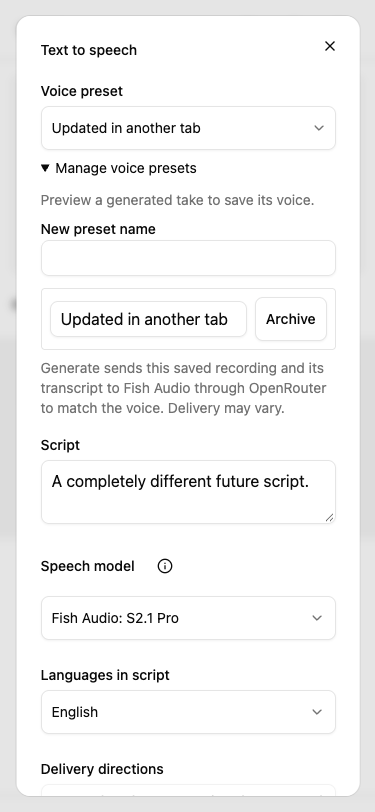
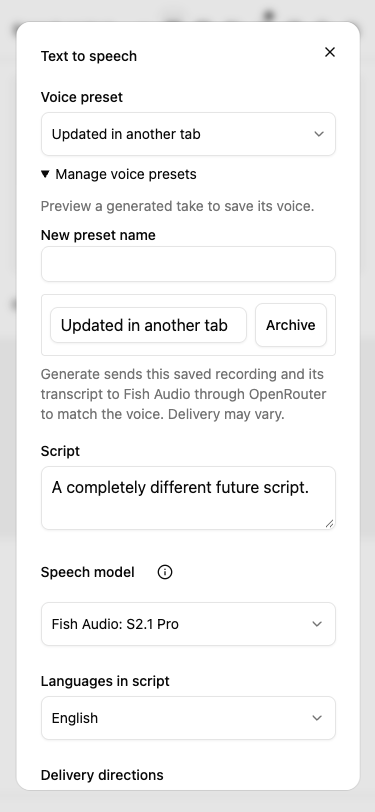
Right-size workspace dialogs and contain narrow layouts

diff --git a/tests/browser/workspace-dialog-sizing.spec.ts b/tests/browser/workspace-dialog-sizing.spec.ts
@@ -1,0 +1,220 @@
+import { expect, test, type Locator, type Page } from '@playwright/test';
+import {
+  openAISettings,
+  openVideoExport,
+  openWorkspaceGroup,
+} from './workspace-settings-helper';
+
+async function bounds(dialog: Locator, page: Page) {
+  await expect(dialog).toBeVisible();
+  await expect
+    .poll(() =>
+      dialog.evaluate((element) => {
+        const rect = element.getBoundingClientRect();
+        return (
+          rect.left >= 8 &&
+          rect.top >= 8 &&
+          rect.right <= innerWidth - 8 &&
+          rect.bottom <= innerHeight - 8
+        );
+      }),
+    )
+    .toBe(true);
+  expect(
+    await dialog.evaluate(
+      (element) => element.scrollWidth - element.clientWidth,
+    ),
+  ).toBeLessThanOrEqual(2);
+  expect(
+    await page.evaluate(
+      () => document.documentElement.scrollHeight - innerHeight,
+    ),
+  ).toBeLessThanOrEqual(2);
+}
+
+for (const base of ['/', '/LocalCut/']) {
+  test(`dialog sizing fits content and contains rich editors across viewports ${base}`, async ({
+    page,
+  }, testInfo) => {
+    test.setTimeout(180000);
+    await page.setViewportSize({ width: 1440, height: 1000 });
+    await page.goto(base);
+    const dialog = (name: string) =>
+      page.getByRole('dialog', { name, exact: true });
+    const close = async (name: string) => {
+      await dialog(name).locator('[data-slot="dialog-close"]').click();
+      await expect(dialog(name)).toBeHidden();
+    };
+    const audit = async (name: string, compact = false) => {
+      await bounds(dialog(name), page);
+      if (compact)
+        expect((await dialog(name).boundingBox())!.height).toBeLessThan(400);
+      await testInfo.attach(`${name} bounds`, {
+        contentType: 'application/json',
+        body: JSON.stringify(await dialog(name).boundingBox()),
+      });
+    };
+    await (
+      await openWorkspaceGroup(page, 'Project')
+    )
+      .getByRole('menuitem', { name: 'New project', exact: true })
+      .click();
+    await audit('New project');
+    await page.getByLabel('Project name', { exact: true }).fill('Dialog audit');
+    await dialog('New project')
+      .getByRole('button', { name: 'Create project', exact: true })
+      .click();
+    await expect(dialog('New project')).toBeHidden();
+
+    await page.getByRole('button', { name: 'Task queue', exact: true }).click();
+    await audit('Task queue', true);
+    await close('Task queue');
+    await expect(
+      page.getByRole('button', { name: 'Task queue', exact: true }),
+    ).toBeFocused();
+    await page
+      .getByRole('button', { name: 'Notifications', exact: true })
+      .click();
+    await audit('Notifications', true);
+    await close('Notifications');
+
+    await openAISettings(page);
+    await audit('AI connection');
+    await page.screenshot({ path: testInfo.outputPath('desktop-ai.png') });
+    await dialog('AI connection')
+      .getByRole('button', { name: 'Done', exact: true })
+      .click();
+
+    await (
+      await openWorkspaceGroup(page, 'Workspace')
+    )
+      .getByRole('menuitem', { name: 'Export workspace', exact: true })
+      .click();
+    await audit('Export workspace');
+    expect(
+      (await dialog('Export workspace').boundingBox())!.width,
+    ).toBeGreaterThan(600);
+    await close('Export workspace');
+    await (
+      await openWorkspaceGroup(page, 'Workspace')
+    )
+      .getByRole('menuitem', { name: 'Import workspace', exact: true })
+      .click();
+    await audit('Import workspace', true);
+    await close('Import workspace');
+
+    await page.getByRole('button', { name: 'Add text', exact: true }).click();
+    await audit('Add text');
+    await dialog('Add text')
+      .getByRole('button', { name: 'Insert Plain text', exact: true })
+      .click();
+    await audit('Clip properties');
+    await close('Clip properties');
+    await openVideoExport(page);
+    await audit('Export video');
+    await close('Export video');
+
+    await page
+      .getByRole('button', { name: 'Open project', exact: true })
+      .click();
+    await audit('Projects');
+    expect((await dialog('Projects').boundingBox())!.height).toBeGreaterThan(
+      600,
+    );
+    await page
+      .getByRole('button', { name: 'Actions for Dialog audit', exact: true })
+      .click();
+    await page.getByRole('menuitem', { name: 'Rename', exact: true }).click();
+    await audit('Rename project', true);
+    await page.screenshot({ path: testInfo.outputPath('desktop-rename.png') });
+    await close('Rename project');
+    await page
+      .getByRole('button', { name: 'Actions for Dialog audit', exact: true })
+      .click();
+    await page
+      .getByRole('menuitem', { name: 'Adjust thumbnail', exact: true })
+      .click();
+    await audit('Adjust thumbnail');
+    await close('Adjust thumbnail');
+    await close('Projects');
+
+    // Layout-only scale changes exercise the same production portal contract.
+    // Open each surface after resizing because the responsive header remounts.
+    for (const viewport of [
+      { width: 320, height: 640 },
+      { width: 600, height: 300 },
+    ]) {
+      await page.setViewportSize(viewport);
+      for (const scale of [0.75, 1, 1.25]) {
+        await page.evaluate(
+          (scale) =>
+            document.documentElement.style.setProperty(
+              '--interface-scale',
+              String(scale),
+            ),
+          scale,
+        );
+        await openAISettings(page);
+        await audit('AI connection');
+        await expect(
+          dialog('AI connection').getByRole('button', {
+            name: 'Done',
+            exact: true,
+          }),
+        ).toBeInViewport();
+        await dialog('AI connection')
+          .getByRole('button', { name: 'Done', exact: true })
+          .click();
+        await (
+          await openWorkspaceGroup(page, 'Workspace')
+        )
+          .getByRole('menuitem', { name: 'Import workspace', exact: true })
+          .click();
+        await audit('Import workspace');
+        await close('Import workspace');
+        await (
+          await openWorkspaceGroup(page, 'Workspace')
+        )
+          .getByRole('menuitem', { name: 'Export workspace', exact: true })
+          .click();
+        await audit('Export workspace');
+        await close('Export workspace');
+        await page
+          .getByRole('button', { name: 'Task queue', exact: true })
+          .click();
+        await audit('Task queue');
+        await close('Task queue');
+        await page
+          .getByRole('button', { name: 'Open project', exact: true })
+          .click();
+        await audit('Projects');
+        await close('Projects');
+        await page.keyboard.press('ControlOrMeta+k');
+        await audit('Commands');
+        await page.getByPlaceholder('Search commands…').fill('no-such-command');
+        await audit('Commands');
+        await page.keyboard.press('Escape');
+        await page.keyboard.press('ControlOrMeta+k');
+        await page
+          .getByPlaceholder('Search commands…')
+          .fill('Keyboard shortcuts');
+        await page.getByRole('option', { name: /Keyboard shortcuts/ }).click();
+        await audit('Keyboard shortcuts');
+        await dialog('Keyboard shortcuts').evaluate((element) => {
+          element.scrollTop = element.scrollHeight;
+        });
+        await expect(
+          dialog('Keyboard shortcuts').getByRole('heading', {
+            name: 'Keyboard shortcuts',
+            exact: true,
+          }),
+        ).not.toBeInViewport();
+        await page.screenshot({
+          path: testInfo.outputPath(`shortcuts-${viewport.width}-${scale}.png`),
+        });
+        // The title scrolling away is expected; keyboard dismissal remains available.
+        await page.keyboard.press('Escape');
+      }
+    }
+  });
+}

diff --git a/src/components/ui/dialog.tsx b/src/components/ui/dialog.tsx
@@ -53,7 +53,7 @@ function DialogContent({
       <DialogPrimitive.Popup
         data-slot="dialog-content"
         className={cn(
-          'fixed top-1/2 left-1/2 z-50 grid h-[min(40rem,calc(var(--app-viewport-height)-2rem))] w-full max-w-[calc(100%-2rem)] -translate-x-1/2 -translate-y-1/2 content-start gap-6 overflow-y-auto overscroll-contain rounded-xl bg-popover p-6 text-sm text-popover-foreground ring-1 ring-foreground/10 duration-100 outline-none sm:max-w-md data-open:animate-in data-open:fade-in-0 data-open:zoom-in-95 data-closed:animate-out data-closed:fade-out-0 data-closed:zoom-out-95',
+          'fixed top-1/2 left-1/2 z-50 grid h-auto max-h-[min(48rem,calc(var(--app-viewport-height)-2rem-env(safe-area-inset-top)-env(safe-area-inset-bottom)))] w-full max-w-[calc(100%-2rem)] -translate-x-1/2 -translate-y-1/2 content-start gap-6 overflow-y-auto overscroll-contain rounded-xl bg-popover p-6 text-sm text-popover-foreground ring-1 ring-foreground/10 duration-100 outline-none sm:max-w-md data-open:animate-in data-open:fade-in-0 data-open:zoom-in-95 data-closed:animate-out data-closed:fade-out-0 data-closed:zoom-out-95',
           className,
         )}
         {...props}
@@ -83,7 +83,7 @@ function DialogHeader({ className, ...props }: React.ComponentProps<'div'>) {
   return (
     <div
       data-slot="dialog-header"
-      className={cn('flex flex-col gap-2', className)}
+      className={cn('flex shrink-0 flex-col gap-2', className)}
       {...props}
     />
   );
@@ -101,7 +101,7 @@ function DialogFooter({
     <div
       data-slot="dialog-footer"
       className={cn(
-        'flex flex-col-reverse gap-2 sm:flex-row sm:justify-end',
+        'flex shrink-0 flex-col-reverse gap-2 sm:flex-row sm:justify-end',
         className,
       )}
       {...props}

diff --git a/src/workspace/WorkspaceDialogs.tsx b/src/workspace/WorkspaceDialogs.tsx
@@ -125,7 +125,7 @@ export default function WorkspaceDialogs({
           if (!open && !busy) onDialogChange(null);
         }}
       >
-        <DialogContent className="flex max-h-[calc(var(--app-viewport-height)-2rem)] flex-col overflow-hidden sm:max-w-xl">
+        <DialogContent className="flex flex-col overflow-hidden sm:max-w-xl">
           <DialogHeader>
             <DialogTitle>Clip properties</DialogTitle>
             <DialogDescription>
@@ -263,7 +263,7 @@ export default function WorkspaceDialogs({
           if (!open) onDialogChange(null);
         }}
       >
-        <DialogContent className="max-h-[calc(var(--app-viewport-height)*0.85)] overflow-y-auto sm:max-w-xl">
+        <DialogContent className="sm:max-w-xl">
           <DialogHeader>
             <DialogTitle>Keyboard shortcuts</DialogTitle>
             <DialogDescription>
@@ -279,11 +279,11 @@ export default function WorkspaceDialogs({
                 <dl className="space-y-2">
                   {group.items.map((item) => (
                     <div
-                      className="flex justify-between gap-4 text-sm"
+                      className="flex min-w-0 flex-col gap-1 text-sm min-[400px]:flex-row min-[400px]:justify-between min-[400px]:gap-4"
                       key={item.keys}
                     >
                       <dt>{item.label}</dt>
-                      <dd className="shrink-0 font-mono text-xs text-muted-foreground">
+                      <dd className="min-w-0 font-mono text-xs text-muted-foreground wrap-anywhere min-[400px]:max-w-3/5 min-[400px]:text-right">
                         {item.keys}
                       </dd>
                     </div>

diff --git a/src/workspace/workspace.css b/src/workspace/workspace.css
@@ -235,9 +235,6 @@
   border-radius: var(--radius);
   color: var(--muted-foreground);
 }
-.project-details-dialog {
-  height: min(36rem, calc(var(--app-viewport-height) - 2rem));
-}
 .project-browser-details {
   display: flex;
   flex: 1;
@@ -1199,10 +1196,6 @@
 .export-details dt {
   color: var(--muted-foreground);
 }
-[data-slot='dialog-content'] {
-  max-height: calc(var(--app-viewport-height) - 32px);
-  overflow-y: auto;
-}
 :root[data-density='compact'] {
   --workspace-preview-padding: 10px 16px 12px;
   --workspace-timeline-padding: 8px 14px 10px;
@@ -1601,10 +1594,6 @@
     line-height: 1.4;
   }
   [data-slot='dialog-content'] {
-    max-height: calc(
-      var(--app-viewport-height) - 32px - env(safe-area-inset-top) -
-        env(safe-area-inset-bottom)
-    );
     overscroll-behavior: contain;
     scroll-padding-block: 20px;
   }

diff --git a/src/workspace/AIConnectionDialog.tsx b/src/workspace/AIConnectionDialog.tsx
@@ -83,7 +83,7 @@ export default function AIConnectionDialog({
           returnFocus ??
           (() => document.getElementById('workspace-settings-trigger'))
         }
-        className="ai-settings-dialog flex max-h-[calc(var(--app-viewport-height)*0.9)] flex-col gap-6 overflow-hidden p-6 sm:max-w-3xl sm:p-8"
+        className="ai-settings-dialog flex flex-col gap-6 overflow-hidden p-6 sm:max-w-3xl sm:p-8"
       >
         <DialogHeader>
           <DialogTitle>AI connection</DialogTitle>
@@ -154,7 +154,7 @@ export default function AIConnectionDialog({
             </p>
           </div>
         </div>
-        <div className="flex items-center justify-between">
+        <div className="flex shrink-0 items-center justify-between">
           <Popover>
             <PopoverTrigger
               render={

diff --git a/src/workspace/AssetIndexControls.tsx b/src/workspace/AssetIndexControls.tsx
@@ -340,10 +340,7 @@ export default function AssetIndexControls({
             </div>
           )}
           <Dialog open={open} onOpenChange={setOpen}>
-            <DialogContent
-              finalFocus={trigger}
-              className="max-h-[calc(var(--app-viewport-height)*0.85)] overflow-y-auto sm:max-w-2xl"
-            >
+            <DialogContent finalFocus={trigger} className="sm:max-w-2xl">
               <DialogHeader>
                 <DialogTitle>Asset index</DialogTitle>
                 <DialogDescription>

diff --git a/src/workspace/TaskQueueDialog.tsx b/src/workspace/TaskQueueDialog.tsx
@@ -264,7 +264,7 @@ export default function TaskQueueDialog({
         if (!open) onClose();
       }}
     >
-      <DialogContent className="flex h-auto max-h-[min(40rem,calc(var(--app-viewport-height)-2rem))] flex-col overflow-hidden sm:max-w-4xl">
+      <DialogContent className="flex flex-col overflow-hidden sm:max-w-4xl">
         <DialogHeader>
           <DialogTitle>Task queue</DialogTitle>
           <DialogDescription className="sr-only">

diff --git a/src/workspace/ProjectSwitcherDialog.tsx b/src/workspace/ProjectSwitcherDialog.tsx
@@ -13,7 +13,7 @@ export default function ProjectSwitcherDialog({
   return (
     <Dialog open onOpenChange={onOpenChange}>
       <DialogContent
-        className="project-switcher-dialog sm:max-w-4xl"
+        className="project-switcher-dialog h-[min(40rem,calc(var(--app-viewport-height)-2rem))] sm:max-w-4xl"
         finalFocus={trigger}
       >
         <DialogTitle className="sr-only">Projects</DialogTitle>

diff --git a/src/workspace/ChatSessionPicker.tsx b/src/workspace/ChatSessionPicker.tsx
@@ -322,7 +322,7 @@ export default function ChatSessionPicker({
           if (!value) setRenaming(null);
         }}
       >
-        <DialogContent className="h-auto" finalFocus={trigger}>
+        <DialogContent finalFocus={trigger}>
           <DialogHeader>
             <DialogTitle>Rename chat</DialogTitle>
             <DialogDescription>Choose a title for this chat.</DialogDescription>

diff --git a/src/workspace/SpeechDialog.tsx b/src/workspace/SpeechDialog.tsx
@@ -727,7 +727,7 @@ export default function SpeechDialog({
         if (!open) onClose();
       }}
     >
-      <DialogContent className="h-auto max-h-[calc(var(--app-viewport-height)*0.9)] overflow-y-auto sm:max-w-xl">
+      <DialogContent className="sm:max-w-2xl">
         <DialogHeader>
           <DialogTitle>Text to speech</DialogTitle>
           <DialogDescription className="sr-only">

diff --git a/src/workspace/TrackMenu.tsx b/src/workspace/TrackMenu.tsx
@@ -197,10 +197,7 @@ export function TrackMenu({
           if (!open) setForm(null);
         }}
       >
-        <DialogContent
-          finalFocus={trigger}
-          className="h-[min(20rem,calc(var(--app-viewport-height)-2rem))]"
-        >
+        <DialogContent finalFocus={trigger}>
           <DialogHeader>
             <DialogTitle>
               {form?.kind === 'rename'

diff --git a/src/workspace/UpdateDialog.tsx b/src/workspace/UpdateDialog.tsx
@@ -20,7 +20,7 @@ export default function UpdateDialog({
 }) {
   return (
     <Dialog open={open} onOpenChange={onOpenChange}>
-      <DialogContent className="h-auto">
+      <DialogContent>
         <DialogHeader>
           <DialogTitle>Update available</DialogTitle>
           <DialogDescription>
